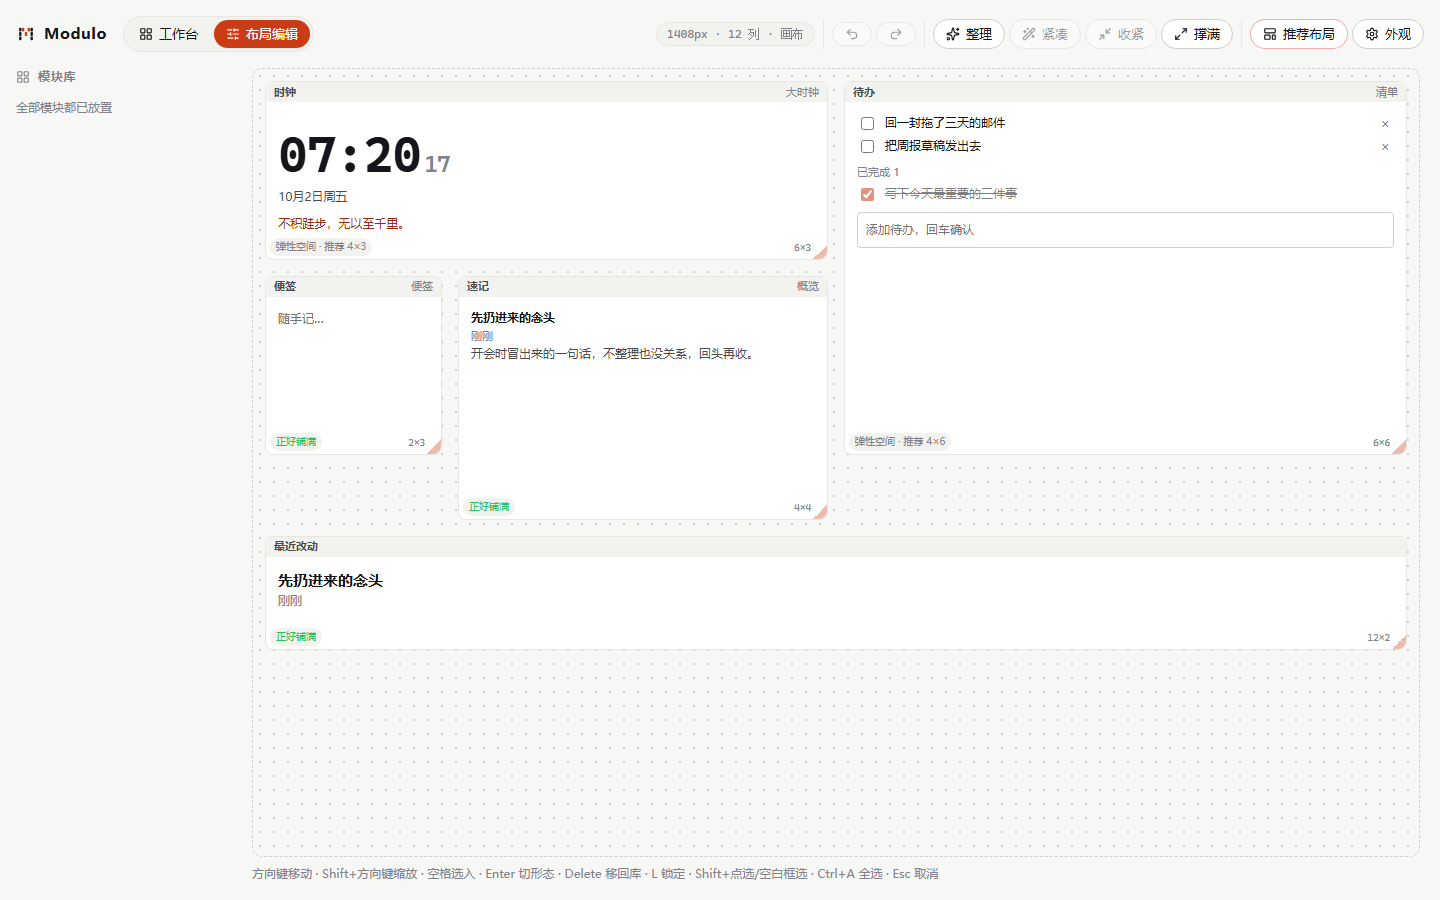
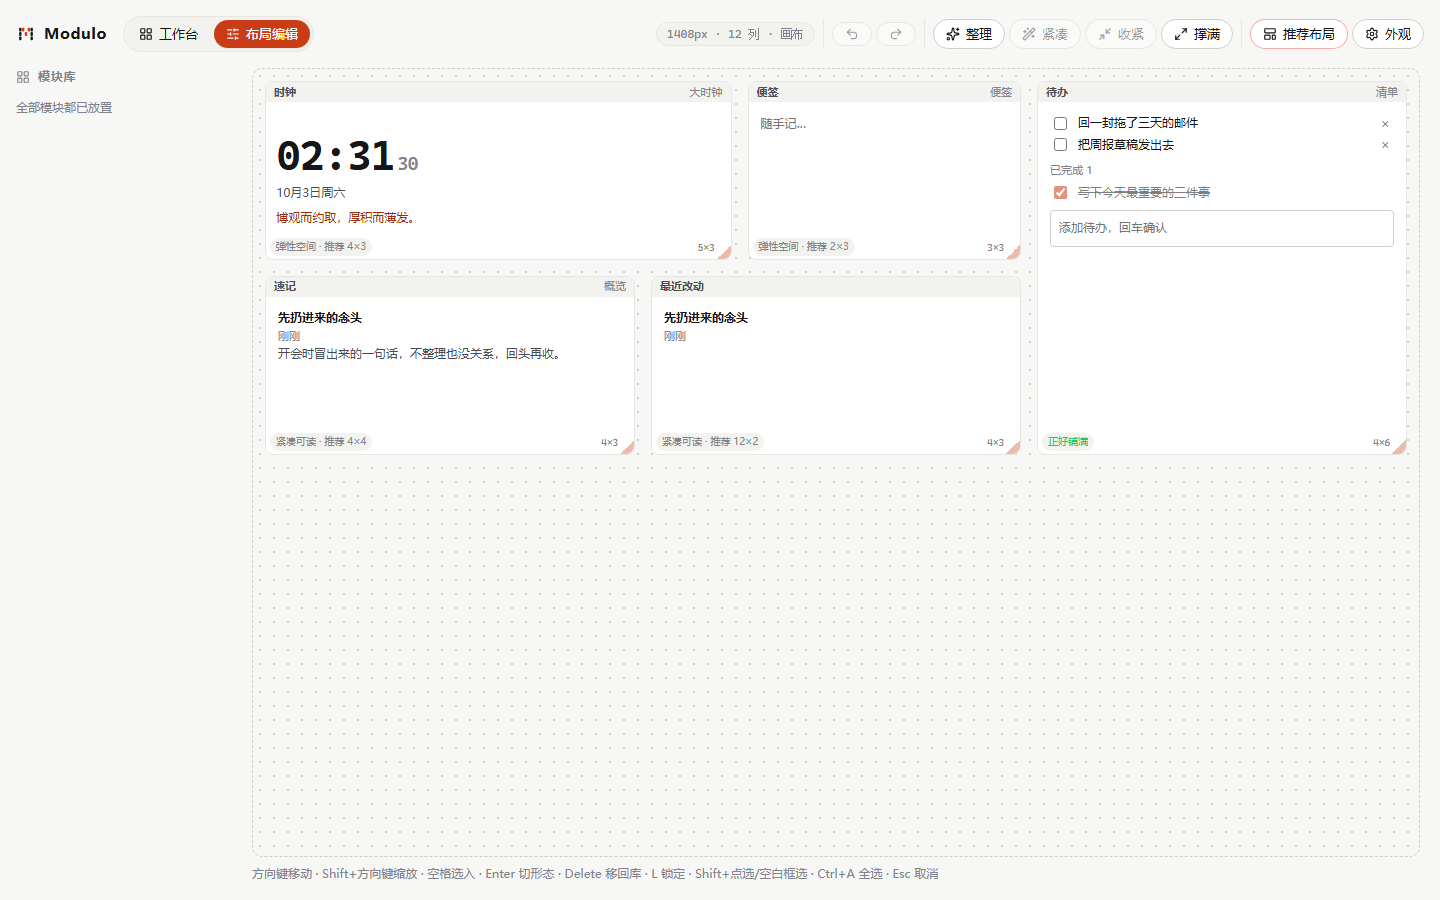
docs: 记 §11.5 起步版面重排，README 主图换成"出厂即铺满"
- ARCHITECTURE 新增 §11.5（现象 → 37.9% 的实测根因 → 两层修法 → 三个反直觉点 →
  那三条测试为什么会空转），并改掉因此失真的旧数字：tidy 的"11 行→9 行"与
  §10.5 的横向稀疏边界标注为旧出厂版面的记录；单测 194→201、E2E 16→17、
  覆盖 90.95%→91.33%；§1 结构树补 cardComponents.ts 与 starter 单测。
- README 三张实拍图按新出厂版面重拍（1× 尺寸），删掉 workbench-spread-1440.png ——
  它的隐含信息"要点了撑满才好看"已经不成立。
- CHANGELOG 开「未发布 —— 起步版面重排」一节。

diff --git a/docs/ARCHITECTURE.md b/docs/ARCHITECTURE.md
@@ -42,7 +42,8 @@ F:\Nexus\Modulo\
 │  │  └─ index.ts          对外统一出口
 │  ├─ vue\                 唯一允许碰框架的适配层
 │  │  ├─ store.ts          模块级 shallowRef 单例（无 Pinia）
-│  │  ├─ cardData.ts cardRegistry.ts appearance.ts useAppearance.ts
+│  │  ├─ cardData.ts cardRegistry.ts（尺寸契约，不 import .vue）cardComponents.ts
+│  │  ├─ appearance.ts useAppearance.ts
 │  │  ├─ fileStorage.ts fileIo.ts useShell.ts useSchemes.ts
 │  │  ├─ useDensity.ts useFocusTrap.ts
 │  │  └─ components\       TitleBar · BrandMark · GridLayout · CanvasEditor · StackEditor · SettingsPanel
@@ -52,7 +53,7 @@ F:\Nexus\Modulo\
 ├─ tests\
 │  ├─ engine\              单测（15 个文件，每个纯函数）
 │  ├─ property\            fast-check：投影不变量 I1–I4 + 分区完整（共 5 条断言）
-│  ├─ vue\                 适配层单测（store / fileStorage / cardData / appearance / shell）
+│  ├─ vue\                 适配层单测（store / fileStorage / cardData / appearance / shell / starter）
 │  ├─ engine-purity.test.ts  逐文件守住「引擎零框架 / DOM 依赖」
 │  └─ e2e\                 puppeteer-core 驱动系统 Chrome：16 条真浏览器断言
 └─ docs\ARCHITECTURE.md
@@ -214,7 +215,7 @@ MVP 先做 A1，A2 留一个 `projection.a2.test.ts` 做对照实验。不在没
 
 - 主题三轴照做：模式（亮/暗/系统）× 预设（单色 + 渐变）× 强调色（`--accent` + `color-mix` 派生 brand 全族）。
 - **卡片表面**：用静态烘焙渐变假装毛玻璃，**全仓零处 `backdrop-filter`**（`grep -rn backdrop-filter src/` = 0 命中）。原计划"真 blur 只给弹窗/菜单等瞬态层"没做 —— 这是 x-hub 用 GPU 从 ~26% 回落换来的结论，我们直接继承，不重新踩；不做也意味着这条没有实测成本可言。
-- **卡片内容一律容器查询**：`.cell{container-type:size}` + `clamp(绝对下限, Ncq…, 绝对上限)`。x-hub 只有 2/13 张卡这么做了，我们 4 个卡组件全做 —— 这是"任意尺寸不裁字"的唯一可靠路径。（注册表里是 **5 个模块**：`cardRegistry.ts:11/21/30/39/48` 的 clock / sticky / todo / notes / **recent**；第 5 个「最近改动」是派生数据，渲染直接复用 `NotesCard`（`:55-60`），所以"4 个卡组件"和"5 个模块"都对，别混着写。起步版面里它也占一格（`store.ts:26`）。）
+- **卡片内容一律容器查询**：`.cell{container-type:size}` + `clamp(绝对下限, Ncq…, 绝对上限)`。x-hub 只有 2/13 张卡这么做了，我们 4 个卡组件全做 —— 这是"任意尺寸不裁字"的唯一可靠路径。（注册表里是 **5 个模块**：`cardRegistry.ts:10/20/29/38/47` 的 clock / sticky / todo / notes / **recent**；第 5 个「最近改动」是派生数据，渲染直接复用 `NotesCard`（`cardComponents.ts:12-18`），所以"4 个卡组件"和"5 个模块"都对，别混着写。起步版面里它也占一格（`store.ts:43`）。）
 - 字号下限硬约束：**正文 ≥12px**，投影降档必须优先保住这条线（x-hub 在 720px 下编辑器预览正文掉到 6.7px）。E2E 卡的是更宽的口 —— `.cell` 里任意叶子文本节点 ≥11px（`tests/e2e/layout.spec.ts:84`），实测三档都是 11px，落在次要文字上（`.hint` / 待办的「已完成」小标题 / ink 皮肤的大写卡头），卡片正文是 13px 起（`tokens.css:180`）。
 
 ---
@@ -337,13 +338,13 @@ MVP 先做 A1，A2 留一个 `projection.a2.test.ts` 做对照实验。不在没
 
 另外去掉了一处观感缺陷：编辑器标签条与卡片自身表头重复显示同一个名字（"便签 / 便签"），改为卡片在编辑态走 `chromeless`，每格只保留一层头部。
 
-当前状态（2026-10-02 复核）：**前端单测 194 条（23 个文件）+ E2E 16 条 + Rust 单测 6 条**全绿，`tsc --noEmit` 干净，引擎分支覆盖 **90.95%**（门禁 90），无 console 报错。`vite build` 同日重跑：**JS 149.34 kB / gzip 55.04 kB，CSS 24.65 kB / gzip 5.58 kB**（比上一版记的 41.0 kB 大，因为多了桌面壳设置页与卡片内容；桌面探针 47 项见 §11.3）。
+当前状态（2026-10-03 复核）：**前端单测 201 条（24 个文件）+ E2E 17 条 + Rust 单测 6 条**全绿，`tsc --noEmit` 干净，引擎分支覆盖 **91.33%**（门禁 90），无 console 报错。`vite build` 同日重跑：**JS 149.34 kB / gzip 55.04 kB，CSS 24.65 kB / gzip 5.58 kB**（比上一版记的 41.0 kB 大，因为多了桌面壳设置页与卡片内容；桌面探针 47 项见 §11.3）。
 
 ### 10.3 验证固化进 CI（2026-10-01）
 
 上面那些交互断言原来只是我手动跑的脚本，等于没有防线。现在：
 
-- `tests/e2e/layout.spec.ts` —— 16 条真浏览器断言（vitest + puppeteer-core 驱动系统 Chrome，CI 上走 `CHROME_PATH=/usr/bin/google-chrome`）：三档视口的列数/溢出/裁字/最小字号、固定行高与卡片高度一致、编辑器可聚焦格 >0、方向键移动 + Ctrl+Z 回退、框选→成组拖拽→整体撤销、空格选入与删除后焦点落位、设置面板焦点陷阱、整理/撑满/收紧/紧凑各自的效果与分步撤销、方案册另存→应用→改名→删除、窄屏自动堆叠、推荐布局的二次确认门禁、拖拽帧率实测（rAF 采样，§8 第 3 条）、方案册键盘与拖拽排序跨重启保留、拖拽全程零 console 报错。
+- `tests/e2e/layout.spec.ts` —— 17 条真浏览器断言（vitest + puppeteer-core 驱动系统 Chrome，CI 上走 `CHROME_PATH=/usr/bin/google-chrome`）：三档视口的列数/溢出/裁字/最小字号、固定行高与卡片高度一致、编辑器可聚焦格 >0、方向键移动 + Ctrl+Z 回退、框选→成组拖拽→整体撤销、空格选入与删除后焦点落位、设置面板焦点陷阱、整理/撑满/收紧/紧凑各自的效果与分步撤销、方案册另存→应用→改名→删除、窄屏自动堆叠、推荐布局的二次确认门禁、拖拽帧率实测（rAF 采样，§8 第 3 条）、方案册键盘与拖拽排序跨重启保留、拖拽全程零 console 报错、出厂版面首行带铺满且整屏 0 空洞（§11.5）。**整理/撑满/方案册那三条不再吃出厂版面的红利** —— 它们现在自己喂一份乱版面当夹具（`SLOPPY_DOC`），因为出厂版面已经不烂了。
 - `vitest.e2e.setup.ts` 用 vite 的 `build()` + `preview({port:0})` 起随机端口，避免与本机其它 dev server 抢端口。
 - `npm run verify` = typecheck（`tsconfig.json` 严格无 DOM + `tsconfig.e2e.json` 带 DOM，分层：产品代码拿不到 `document`）→ 单测 → 构建 → E2E。`.github/workflows/ci.yml` 就按这四步跑。
 - 首批 CI 落地时的本地实测：103 单测 + 5 E2E 全绿，E2E 约 43s（含构建）；此后各轮持续增补，当前规模看 README。
@@ -355,11 +356,11 @@ MVP 先做 A1，A2 留一个 `projection.a2.test.ts` 做对照实验。不在没
 `src/engine/tidy.ts`：单趟"上+左"重力聚拢，锁定项不动、其余绕开它落位，兜底放到 `maxRow` 之下（那一行必然空闲）。两个实现细节是被测试逼出来的：
 
 1. **两趟分开聚拢（先左后上）会造出重叠** —— 找不到空位时"原样返回"就撞上了前一趟已挪动过的卡片。随机版面性质测试抓到后改成单趟联合扫描。
-2. **单次整理可能让版面更高**（推荐布局实测 11 行 → 12 行：左聚把窄卡挤到下一列，通栏只能再往下落）。改为同时算"仅上聚"与"上+左聚"两个候选取更矮者，并**迭代到不动点**保证幂等。现在有两条硬保证：`usedRows` 只会变小不会变大（200 组随机版面断言）、tidy 两次等于一次。
+2. **单次整理可能让版面更高**（旧出厂版面实测 11 行 → 12 行：左聚把窄卡挤到下一列，通栏只能再往下落；那份默认已按 §11.5 重排过，数字留作 tidy 行为的例证）。改为同时算"仅上聚"与"上+左聚"两个候选取更矮者，并**迭代到不动点**保证幂等。现在有两条硬保证：`usedRows` 只会变小不会变大（200 组随机版面断言）、tidy 两次等于一次。
 
 工作台与编辑器共用顶部「整理」按钮；撤销/重做同时上移为**全局**键盘能力（E2E 抓到过：在工作台点整理后按 Ctrl+Z 无效，因为监听只挂在编辑器组件上）。
 
-诚实边界：整理能把 11 行压到 9 行、消除纵向空档，但**不会让版面"看起来满"**——5 张卡在 12 列里仍会留下中部横向空白（见 `evidence/tidy-before.png` / `tidy-after.png`）。要真正解决稀疏感，需要的是"按可用宽度重新分配卡片宽度"的模式，属于视觉/排版策略层，由 §10.5 的撑满模式接手。
+诚实边界：整理能压掉纵向空档，但**不会让版面"看起来满"** —— 横向中缝它管不了（那两张 `evidence/tidy-*.png` 是旧出厂版面的记录；出厂默认本身已在 §11.5 重排成 0 空洞）。要真正解决稀疏感，需要的是"按可用宽度重新分配卡片宽度"的模式，属于视觉/排版策略层，由 §10.5 的撑满模式接手。
 
 ### 10.5 视觉方向与撑满模式（2026-10-01）
 
@@ -539,3 +540,30 @@ Tauri 2 最小壳：`src-tauri/` 只声明一个主窗口（1280×800，最小 3
 **许可**：Apache-2.0（`LICENSE`），`Cargo.toml` 的 `license`、`package.json` 的 `license`、`tauri.conf.json` 的 `bundle.copyright` / `bundle.licenseFile` 四处一起对齐。选 Apache-2.0 而不是 MIT：带显式专利授权与商标条款，且与同目录的 OpsMesh 一致。
 
 **顺带修掉一个「本机 `cargo test` 从来没通过过」的问题**：模板给的 `crate-type = ["staticlib", "cdylib", "rlib"]` 是给移动端的，本项目只有桌面端；而 windows-gnu 目标下 debug 版 cdylib 会把整棵依赖树的符号塞进导出表（dlltool 生成九万余条，超 PE 的 65535 序号上限），链接直接报 `export ordinal too large`。能跑通的只有 `cargo test --lib`。裁成 `["rlib"]` 之后 `cargo test` 第一次真正跑通 —— 也就是说 CI 里那条 `cargo test` 门禁，在本地从来没有被等价地执行过。
+
+### 11.5 起步版面重排：0 空洞，以及三条"靠默认缺陷才过"的测试（2026-10-03）
+
+**现象**：用户实拍首启界面 —— 时钟与待办之间空着 4 列 × 3 行，屏幕右半一大块白。
+
+**量出来的根因**：`starterDoc` 把坐标写死（`clock(0,0)` / `todo(8,0)` / `sticky(0,3)` / `notes(2,3)` / `recent(0,9)`），每张卡用形态的 ideal 尺寸，于是：
+- `clock` 4 宽 + `todo` 4 宽 = 8，**cols 4-8 整段没人占**；
+- `recent` 的 y=9 是硬编码的，而它上面的卡最高只落到 y=6/7，**y7、y8 两整行全空**；
+- 用引擎实算：11 行的矩形里 **50/132 格是空的 = 37.9% 空洞**（`① 出厂 starterDoc` 那次跑数）。
+
+README 主图一直用的是"点过撑满之后"的截图 —— 等于默认了这个起点不好看。
+
+**修法分两层，缺一不可**：
+1. **显式重排**（`store.ts:32-57`）：两带各自铺满 12 列 —— 第一带 时钟 5×3 + 便签 3×3 + 待办 4×6（待办竖在右侧一整列，既是主卡也撑住两带高度），第二带 速记 4×3 + 最近改动 4×3。
+2. **`spreadLayout` 兜底**：手排只保证"当下这两带是满的"，以后改 registry 的 ideal 尺寸或加第 6 个模块，还得靠 tidy+fillRows 收。
+
+**中间踩到的两个反直觉点**：
+- **只靠 `fillRows` 会把事情弄糟**：它按"顶边相同的卡"为一组铺宽，**某一带只剩一张卡时会被拉成通栏** —— 实测速记变成 12 列横幅装 1 条内容，空洞率 0 了但更难看。所以宽度必须自己排，`fillRows` 只当兜底；守卫里也加了"任何卡不许超过理想宽 1.5 倍"（`tests/vue/starter.test.ts`）。
+- **`addItem` 不吃尺寸**：它只按形态 ideal 找空位，给 x,y 也只是搜索起点。所以起步版面必须 `addItem → resizeItem → moveItem` 三步走（`store.ts:47-51`），少了 move 那步，12 宽的通栏会被塞到下一带，速记就成了上面那种"单卡带"。
+- 待办必须留 4 逻辑列：N=4 档是 `ceil(w/3)`，3 列会被压成 1 物理列（实测 159px），条目文字直接裁掉（`clipped=2`）。
+
+**顺带暴露的测试设计问题（这条最值钱）**：改完 0 空洞之后，**三条 E2E 立刻挂了** —— 「整理：行数变少」「撑满：首行带从缺角铺满」「版面方案：按撑满改版面」，它们全都建立在"出厂版面本来就有洞"上，也就是**一直在测"排版排得烂"，而不是测"这三个工具有用"**。默认一修好，它们就空转了。现在这三条改成自己喂夹具（`SLOPPY_DOC`，就是旧版那份真实出厂坐标），另加一条正向守卫「出厂版面：首行带铺满且整屏不留空洞」。
+**教训**：凡是"点一下 X 会变化"的断言，都要问一句"这个变化是 X 造成的，还是默认状态本来就烂"。夹具要自带，不能蹭默认。
+
+**新增守卫**：`tests/vue/starter.test.ts` 7 条（0 空洞、无整行空、不重叠、minW/minH 下限、1.5× 理想宽上限、tidy/spread 不动点），并且它 import 的是**真注册表** —— 为此把 `.vue` 组件映射从 `cardRegistry.ts` 拆到 `cardComponents.ts`（尺寸契约文件必须能被 node 环境的单测直接 import，抄一份 fixture 进测试等于装了个会撒谎的守卫）。
+
+**实测**：三档视口（1440 / 720 / 390）`hScroll=false`、`clipped=0`、最小字号 11px、零 console 报错；`npm run verify` 两轮连绿：**201 单测（24 文件）+ 17 E2E**，引擎分支覆盖 90.95% → **91.33%**（新守卫顺带跑到了 `spread`/`tidy` 的更多分支）。README 三张实拍图已按新出厂版面重拍（1× 尺寸，旧的 `workbench-spread-1440.png` 删除）。

diff --git a/CHANGELOG.md b/CHANGELOG.md
@@ -3,6 +3,39 @@
 格式参考 [Keep a Changelog](https://keepachangelog.com/zh-CN/1.1.0/)，版本号遵循
 [语义化版本](https://semver.org/lang/zh-CN/)。
 
+## 未发布 —— 起步版面重排（2026-10-03）
+
+用户实拍首启界面提出质疑，量出来确实是缺陷，不是观感偏好。
+
+### 修复
+
+- **出厂版面带 37.9% 空洞**：`starterDoc` 把坐标写死（`todo` 在 x=8、`recent` 在 y=9），
+  于是时钟与待办之间空 4 列 × 3 行，且 y7、y8 **两整行全空**。现在两带各自铺满 12 列
+  （时钟 5×3 + 便签 3×3 + 待办 4×6 竖列 / 速记 4×3 + 最近改动 4×3），实测 **0 空洞**。
+  仍保留 `spreadLayout` 兜底，以后改尺寸契约或加模块不至于重新漏。
+- **只靠「撑满」补宽度会把速记拉成 12 列横幅**（单卡带会被整组铺满），所以宽度改成显式排，
+  并加一条"任何卡不超过理想宽 1.5 倍"的守卫。
+- **待办必须留 4 逻辑列**：N=4 档按 `ceil(w/3)` 换算，3 列会压成 1 物理列（实测 159px），
+  条目文字被裁 —— 这是改小尺寸时 E2E 报 `clipped=2` 抓到的。
+- README 三张实拍图按新出厂版面重拍；旧的 `workbench-spread-1440.png`（"要点了撑满才好看"）删除。
+
+### 测试
+
+- **三条 E2E 原来是在蹭出厂版面的缺陷**：「整理让行数变少」「撑满把缺角铺满」「方案册靠撑满改版面」
+  —— 出厂版面一旦不再烂，它们就静默空转。现在这三条自己喂一份乱版面当夹具
+  （`SLOPPY_DOC` 就是旧版那份真实出厂坐标），另加一条正向守卫
+  「出厂版面：首行带铺满且整屏不留空洞」。E2E 16 → 17 条。
+- 新增 `tests/vue/starter.test.ts` 7 条：0 空洞、不留整行空、不重叠、minW/minH 下限、
+  理想宽 1.5 倍上限、tidy/spread 不动点。它 import **真注册表**，为此把 `.vue` 组件映射拆到
+  `cardComponents.ts`（尺寸契约必须能被 node 环境单测直接 import；抄一份 fixture 进测试，
+  等于装一个会撒谎的守卫）。
+- 规模：前端单测 194 → **201**（23 → 24 文件），E2E 16 → **17**；引擎分支覆盖 90.95% → **91.33%**。
+
+### 本轮踩到的一条方法论
+
+凡是"点一下 X 应该发生变化"的断言，都要先问：**这个变化是 X 造成的，还是默认状态本来就烂**。
+默认一修好就挂的测试，说明它测的从来不是那个功能。
+
 ## 0.1.0 —— 2026-10-03（首个可安装版本）
 
 范围：`dff4cb4` 起共 52 个提交。这一轮把项目从"本机跑得通"推到

diff --git a/README.md b/README.md
@@ -6,7 +6,7 @@
 
 **想要装起来用**：[Releases · v0.1.0](https://github.com/Levango7/Modulo/releases/tag/v0.1.0) 里有 Windows x64 的 NSIS 安装包（`Modulo_0.1.0_x64-setup.exe`，1 858 935 字节，`sha256 4658ada982c7e439f5d5a238c2cb8a40ae0229c71281170466ffe49c3d8f2a15`，构建自 `0c42fc9`，该二进制在本机通过全部 47 项真机检查）。安装包**没有代码签名**，首次运行 Windows SmartScreen 会提示"未知发布者"。数据落在 `%APPDATA%\app.modulo\data\*.json`，整个目录拷走就是备份。
 
-![工作台：点「撑满」后每个行带铺满 12 列](docs/assets/workbench-spread-1440.png)
+![工作台：出厂版面就是铺满的 —— 12 列、行带之间不留中缝](docs/assets/workbench-starter-1440.png)
 
 ## 界面
 
@@ -62,7 +62,7 @@ CHANGELOG.md           迭代变更历史（新增 / 修复 / 门禁 / 已知问
 
 CI（`.github/workflows/ci.yml`）两个 job：`verify` 跑四步 —— 类型检查 → 单测与属性测试（**顺带卡引擎分支覆盖 ≥90%**，`npm run cover:engine`）→ 构建 → E2E；`desktop` 在 windows-latest 上跑 `cargo fmt --check` → `clippy -D warnings` → `cargo test` → 真打包出 exe 并上传产物。
 投影算法有**五条**断言（只读、幂等、无重叠、尺寸充分、分区完整），用随机版面 × 7 档列数各 200 例做属性测试。
-两条量化门禁：引擎分支覆盖 ≥90%（`npm run cover:engine`，当前 90.95%）、真拖期间帧距中位数 ≤18.2ms（E2E 里用 rAF 采样，本机 headless 实测 16.7ms —— headless 只能当下限看）。
+两条量化门禁：引擎分支覆盖 ≥90%（`npm run cover:engine`，当前 91.33%）、真拖期间帧距中位数 ≤18.2ms（E2E 里用 rAF 采样，本机 headless 实测 16.7ms —— headless 只能当下限看）。
 桌面壳另有一条 `npm run desktop:probe`：给 WebView2 开远调端口，用 CDP 点真实的 DOM 按钮、派发真的 mousedown，再从 Win32 侧读窗口状态（图标态/工作区/样式位），不模拟鼠标所以不会抢走指针；召唤键用 SendKeys 从系统输入队列投递，正例（收起→唤出）之外还有反例（投一个不该生效的组合键，断言窗口纹丝不动），改键链路也在真窗口里跑一遍。窗口状态一律轮询等到落地再断言——单次 Win32 采样实测 1.1–1.3 秒，固定 sleep 会把「慢」误报成「坏」。截图落在 `evidence/desktop/`。
 
 ## 许可
